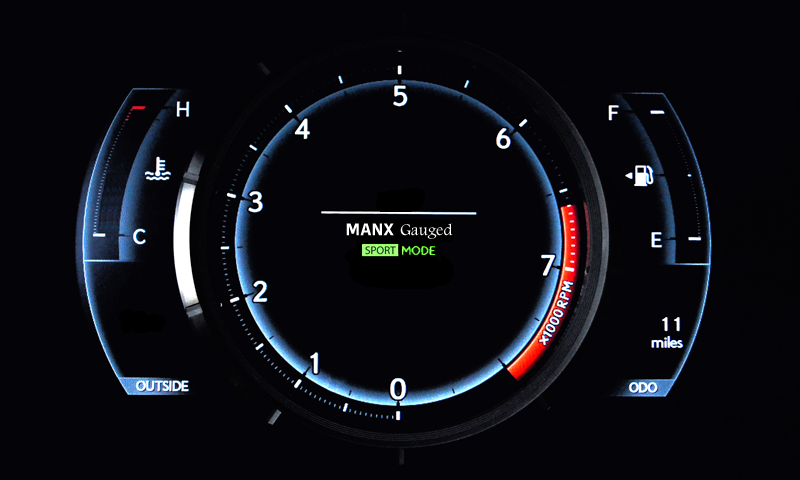
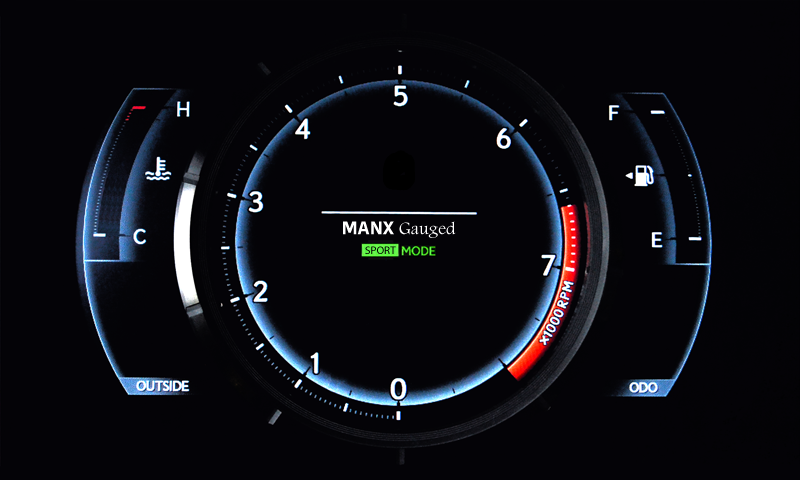
Displaying odometer and tripometer on interface. Calculate tripometer by setting tripometer value to the current odometer value and calculating the different between the odometer value and previously saved tripometer value. The difference is the ditance travelled after tripometer was set. Created lo

diff --git a/manxgauged.py b/manxgauged.py
@@ -82,6 +82,8 @@ turn_right_lighton = "turn_right_light.png"
 traction_left_lighton = "traction_left_light.png"
 traction_right_lighton = "traction_right_light.png"
 highbeam_lighton = "highbeam_lighton.png"
+
+tripometer_texton = "tripometer.png"
 #Fuel Gauge
 xfuel1 = "fuel1.png"
 xfuel2 = "fuel2.png"
@@ -139,6 +141,7 @@ wiperminusstate = 0
 hornstate = 0
 fuelstate = 12
 engine_tempstate = 8
+odo_state = 1 # 1 = display odometer, 0 = display tripometer
 
 '''Flags'''
 kmh = 0  #1 = km/h, 0 = mph
@@ -166,6 +169,10 @@ left_turn_light_arduino = "0"
 right_turn_light_arduino = "0"
 odometer_arduino = "0"
 odometer_error_flag_from_arduino = 1  # 1 = Error, 0 = No error (odometer reading from arduino is correct)
+displayed_odometer_kmh = 0.00
+displayed_odometer_mph = 0.00
+displayed_tripometer_kmh = 0.00
+displayed_tripometer_mph = 0.00
 
 #enginetemp_light_arduino = "1"
 #fuel_light_arduino = "1"
@@ -249,6 +256,7 @@ turn_right_lighton = pygame.image.load(turn_right_lighton).convert_alpha()
 highbeam_lighton = pygame.image.load(highbeam_lighton).convert_alpha()
 enginetemperature_lighton = pygame.image.load(enginetemperature_lighton).convert_alpha()
 lowfuel_lighton = pygame.image.load(lowfuel_lighton).convert_alpha()
+tripometer_texton = pygame.image.load(tripometer_texton).convert_alpha()
 
 
 '''Used to manage how fast the screen updates'''
@@ -457,10 +465,14 @@ def init_send_arduino_odometer():
 	
 def update_odometer_trip_txtfile():
 	global odometer_arduino
-	odofile = open("odo.txt", "r+")
-	odofile.write("odo:" + str(odometer_arduino + '\n'))
-	odofile.write("trip:" + str(tripometer) + '\n')
-	odofile.close()
+	global odometer_error_flag_from_arduino
+	
+	if odometer_error_flag_from_arduino == 0:
+		odofile = open("odo.txt", "r+")
+		odofile.write("odo:" + str(odometer_arduino + '\n'))
+		odofile.write("trip:" + str(tripometer) + '\n')
+		odofile.close()
+		
 	return
 
 	
@@ -577,6 +589,7 @@ while True:
 		odometer_update_index_time = 0
 		update_odometer_trip_txtfile()
 	
+	
 	#Find faster speed left or right to display as main speed on interface
 	try: 
 		int(rightspeed_arduino)
@@ -657,7 +670,57 @@ while True:
 			print "Error Converting air temp to Farenheit"
 			
 	'''Display Odometer (depedning on if Km/h or mph is selected.'''
-	print odometer_arduino
+	try:
+		displayed_odometer_mph = round((float(odometer_arduino)/number_points_cvjoint_speedsensor)*wheelcircumference,1)
+		displayed_odometer_kmh = round((float(odometer_arduino)/number_points_cvjoint_speedsensor)*wheelcircumference*(1.60934),1)
+		
+		displayed_tripometer_mph = round(((float(odometer_arduino)-tripometer)/number_points_cvjoint_speedsensor)*wheelcircumference,1)
+		displayed_tripometer_kmh = round(((float(odometer_arduino)-tripometer)/number_points_cvjoint_speedsensor)*wheelcircumference*(1.60934),1)
+	
+	except:
+		print "Error converting odometer string from arduino to float"
+	if odometer_error_flag_from_arduino == 0:
+		if odo_state == 1:
+			if kmh == 0:
+				#odometer displayed in miles
+				speedtext = font_airtemp.render(str(displayed_odometer_mph), 1, (255, 255, 255))
+				speedtext_rect = speedtext.get_rect(right = 680, top = 331) #(right = 440, top = 148)
+				screen.blit(speedtext, speedtext_rect) 
+				speedtext = font_airtemp.render("miles", 1, (255, 255, 255))
+				speedtext_rect = speedtext.get_rect(right = 675, top = 349) #(right = 440, top = 148)
+				screen.blit(speedtext, speedtext_rect) 
+			else:
+				#odometer displayed in km/h
+				speedtext = font_airtemp.render(str(displayed_odometer_kmh), 1, (255, 255, 255))
+				speedtext_rect = speedtext.get_rect(right = 680, top = 331) #(right = 440, top = 148)
+				screen.blit(speedtext, speedtext_rect) 
+				speedtext = font_airtemp.render("km", 1, (255, 255, 255))
+				speedtext_rect = speedtext.get_rect(right = 675, top = 349) #(right = 440, top = 148)
+				screen.blit(speedtext, speedtext_rect) 
+		else:
+			if kmh == 0:
+				#tripometer displayed in miles
+				speedtext = font_airtemp.render(str(displayed_tripometer_mph), 1, (255, 255, 255))
+				speedtext_rect = speedtext.get_rect(right = 680, top = 331) #(right = 440, top = 148)
+				screen.blit(speedtext, speedtext_rect) 
+				speedtext = font_airtemp.render("miles", 1, (255, 255, 255))
+				speedtext_rect = speedtext.get_rect(right = 675, top = 349) #(right = 440, top = 148)
+				screen.blit(speedtext, speedtext_rect) 
+			else:
+				#tripometer displayed in km/h
+				speedtext = font_airtemp.render(str(displayed_tripometer_kmh), 1, (255, 255, 255))
+				speedtext_rect = speedtext.get_rect(right = 680, top = 331) #(right = 440, top = 148)
+				screen.blit(speedtext, speedtext_rect) 
+				speedtext = font_airtemp.render("km", 1, (255, 255, 255))
+				speedtext_rect = speedtext.get_rect(right = 675, top = 349) #(right = 440, top = 148)
+				screen.blit(speedtext, speedtext_rect) 
+	else:
+		speedtext = font_airtemp.render("Odo Error", 1, (255, 255, 255))
+		speedtext_rect = speedtext.get_rect(right = 680, top = 331) #(right = 440, top = 148)
+		screen.blit(speedtext, speedtext_rect) 
+		speedtext = font_airtemp.render("Touch Here", 1, (255, 255, 255))
+		speedtext_rect = speedtext.get_rect(right = 675, top = 349) #(right = 440, top = 148)
+		screen.blit(speedtext, speedtext_rect) 
 	
 	'''Display idiot lights/turn signals if needed'''
 	if oil_light_arduino == "1":
@@ -794,6 +857,26 @@ while True:
 			engine_tempstate = 0
 		else:
 			engine_tempstate = engine_tempstate + 1
+			
+	if  700 > mousex > 600 and 380 > mousey > 320 and leftmousebutton_up(click[0]): # Toggle Odometer and Tripometer
+		if odometer_error_flag_from_arduino == 1:
+			screen.blit(background, (0,0))
+			
+			speedtext = font_airtemp.render("Please Wait", 1, (255, 255, 255))
+			speedtext_rect = speedtext.get_rect(right = 680, top = 331) #(right = 440, top = 148)
+			screen.blit(speedtext, speedtext_rect) 
+			speedtext = font_airtemp.render("Updating Odo", 1, (255, 255, 255))
+			speedtext_rect = speedtext.get_rect(right = 675, top = 349) #(right = 440, top = 148)
+			screen.blit(speedtext, speedtext_rect) 
+			
+			pygame.display.update()
+			init_send_arduino_odometer()
+			
+		else:
+			if odo_state == 1:
+				odo_state = 0
+			else:
+				odo_state = 1
 			
 	'''if 104 > mousex > 34 and 80 > mousey > 13 and click[0] == 0:
 		if previous_mouse_click == 1:
@@ -939,6 +1022,9 @@ while True:
 	
 	screen.blit(musicbutton, (0,0))	
 	screen.blit(gpsbutton, (0,0))
+	
+	if odo_state == 0:
+		screen.blit(tripometer_texton, (0,0))
 	
 	
 	if engine_tempstate >= 14:
